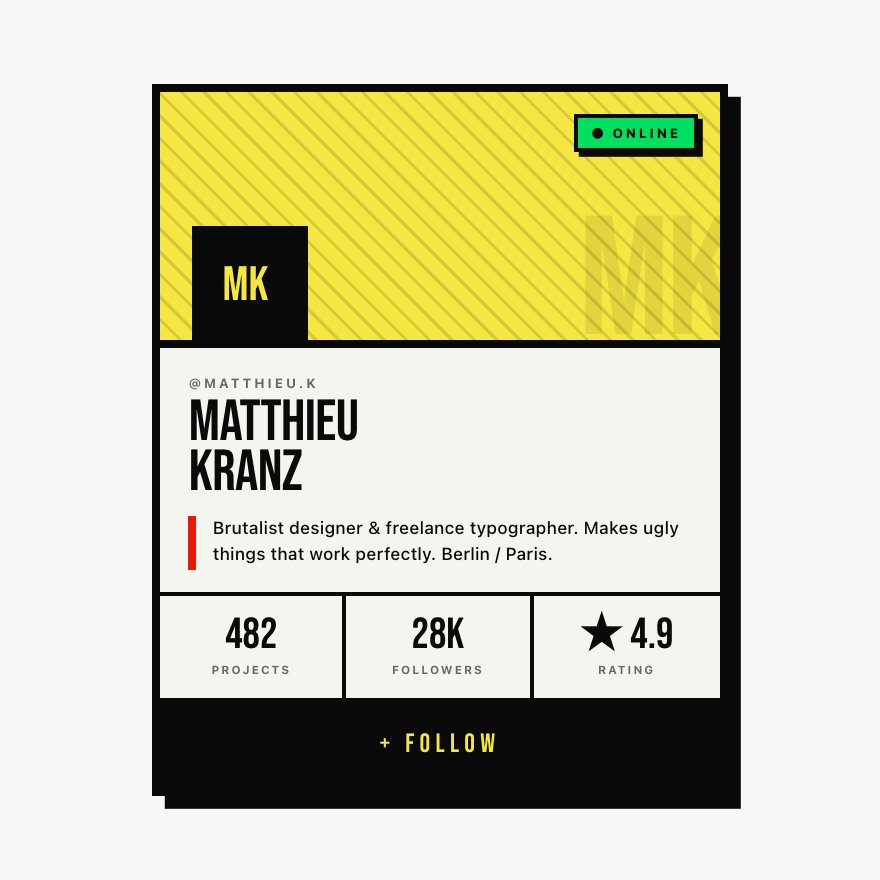
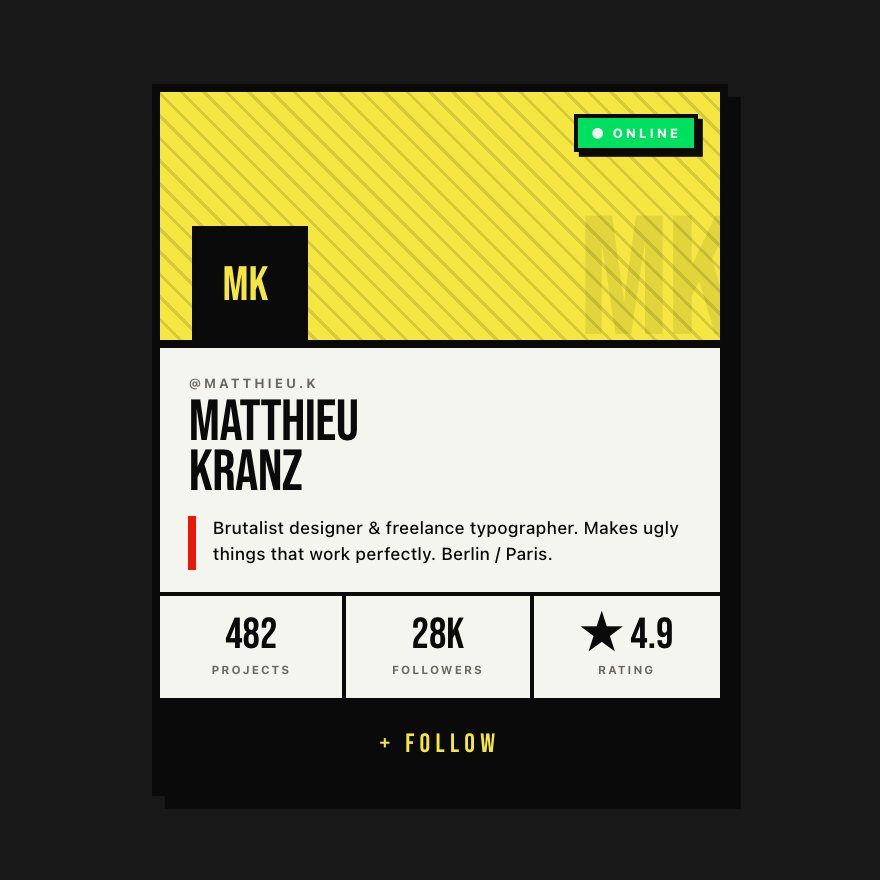
fix: mobile and dark mode polish across detail pages and experiments
- Detail pages: back-to-list arrow in a left dock; on narrow screens the
  Details button scrolls the panel into view and the stage shrinks so it peeks
- Carousel: swiping no longer locks after the first swipe or a control change;
  defaults to round
- Hold to delete: block the long-press menu and iOS text selection that
  cancelled touch holds
- Morph Surface: 16px field on touch so iOS doesn't zoom on focus
- Siri orb: controls fit their fieldset and stack on narrow widths
- Dark mode: real drop shadows for the shared halo, Shift shadow tokens and
  the stats widget instead of pale glows
- Previews: shoot every poster in dark mode, fix the base URL and slug parsing,
  regenerate posters
- Window Licker: bump date so it leads the list

diff --git a/tests/smoke.spec.ts b/tests/smoke.spec.ts
@@ -18,6 +18,24 @@ test('index lists experiments and detail page links back', async ({ page }) => {
   await expect(page).toHaveURL('./');
 });
 
+test('dock back arrow returns to the experiments list', async ({ page }) => {
+  await page.goto('./sheet/');
+  await page.getByRole('link', { name: 'Back to experiments' }).click();
+  await expect(page).toHaveURL('./');
+});
+
+test.describe('on a phone', () => {
+  test.use({ viewport: { height: 844, width: 390 } });
+
+  test('details scrolls the panel into view', async ({ page }) => {
+    await page.goto('./sheet/');
+    await page.waitForLoadState();
+    await page.getByRole('button', { name: 'Details' }).click();
+    await expect(page.locator('#info')).toBeInViewport();
+    await expect.poll(() => page.evaluate(() => window.scrollY)).toBeGreaterThan(0);
+  });
+});
+
 test('stage shrinks with the details panel instead of snapping', async ({ page }) => {
   await page.goto('./sheet/');
   await page.waitForLoadState();
@@ -241,6 +259,16 @@ test('hold to delete fires only after a full hold', async ({ page }) => {
   await expect(button).toHaveAccessibleName('Hold to delete', { timeout: 3000 });
 });
 
+test('hold to delete blocks the long-press menu that would cancel a touch hold', async ({ page }) => {
+  await page.goto('./hold-to-delete-button/');
+  const demo = page.getByTestId('hold-to-delete-button-demo');
+  await demo.locator('astro-island:not([ssr])').waitFor({ state: 'attached' });
+  const prevented = await demo
+    .getByRole('button')
+    .evaluate((button) => !button.dispatchEvent(new MouseEvent('contextmenu', { bubbles: true, cancelable: true })));
+  expect(prevented).toBe(true);
+});
+
 test('staggered text rolls from the hovered letter and back', async ({ page }) => {
   await page.goto('./staggered-text/');
   const demo = page.getByTestId('staggered-text-demo');
@@ -344,4 +372,56 @@ test('liquid glass calendar pages and picks days, and the stopwatch runs', async
   await demo.getByRole('button', { name: 'Pause stopwatch' }).click();
   await demo.getByRole('button', { name: 'Reset stopwatch' }).click();
   await expect(readout).toHaveText('00:00.00');
+});
+
+test('carousel keeps swiping after a swipe and after a control change', async ({ page }) => {
+  await page.goto('./carousel/');
+  await page.locator('astro-island:not([ssr])').waitFor({ state: 'attached' });
+  // The container, not the track: the track's box moves with its translate.
+  const container = page.locator('.carousel-container');
+  const swipe = async () => {
+    const box = await container.boundingBox();
+    if (!box) {
+      throw new Error('carousel not rendered');
+    }
+    const y = box.y + box.height / 2;
+    await page.mouse.move(box.x + box.width * 0.7, y);
+    await page.mouse.down();
+    await page.mouse.move(box.x + box.width * 0.3, y, { steps: 8 });
+    await page.mouse.up();
+  };
+  const current = page.locator('.carousel-indicator[aria-current="true"]');
+  await swipe();
+  await expect(current).toHaveAccessibleName('Go to slide 2');
+  await swipe();
+  await expect(current).toHaveAccessibleName('Go to slide 3');
+  await page.getByRole('checkbox', { name: 'loop' }).check();
+  await expect(current).toHaveAccessibleName('Go to slide 1');
+  await swipe();
+  await expect(current).toHaveAccessibleName('Go to slide 2');
+});
+
+test('siri orb controls fit inside their fieldset', async ({ page }) => {
+  await page.goto('./siri-orb/');
+  const controls = page.locator('.siri-orb-controls');
+  await controls.waitFor();
+  const fits = () => controls.evaluate((el) => el.scrollWidth <= el.clientWidth);
+  expect(await fits()).toBe(true);
+  await page.setViewportSize({ height: 844, width: 390 });
+  expect(await fits()).toBe(true);
+});
+
+test.describe('on a touch phone', () => {
+  test.use({ hasTouch: true, isMobile: true, viewport: { height: 844, width: 390 } });
+
+  // iOS zooms the page into any focused field under 16px.
+  test('morph surface field is large enough not to zoom on focus', async ({ page }) => {
+    await page.goto('./morph-surface/');
+    const demo = page.getByTestId('morph-surface-demo');
+    await demo.locator('astro-island:not([ssr])').waitFor({ state: 'attached' });
+    await demo.getByRole('button', { name: 'Ask AI' }).click();
+    const field = demo.getByRole('textbox', { name: 'AI Input' });
+    await expect(field).toBeFocused();
+    await expect(field).toHaveCSS('font-size', '16px');
+  });
 });

diff --git a/src/content/experiments/carousel/Carousel.tsx b/src/content/experiments/carousel/Carousel.tsx
@@ -127,7 +127,6 @@ const Carousel = ({
   const x = useMotionValue(0);
   const [isHovered, setIsHovered] = useState<boolean>(false);
   const [isJumping, setIsJumping] = useState<boolean>(false);
-  const [isAnimating, setIsAnimating] = useState<boolean>(false);
 
   const containerRef = useRef<HTMLDivElement>(null);
   useEffect(() => {
@@ -173,13 +172,8 @@ const Carousel = ({
 
   const effectiveTransition = isJumping ? { duration: 0 } : SPRING_OPTIONS;
 
-  const handleAnimationStart = () => {
-    setIsAnimating(true);
-  };
-
   const handleAnimationComplete = () => {
     if (!loop || itemsForRender.length <= 1) {
-      setIsAnimating(false);
       return;
     }
     const lastCloneIndex = itemsForRender.length - 1;
@@ -189,10 +183,7 @@ const Carousel = ({
       const target = 1;
       setPosition(target);
       x.set(-target * trackItemOffset);
-      requestAnimationFrame(() => {
-        setIsJumping(false);
-        setIsAnimating(false);
-      });
+      requestAnimationFrame(() => setIsJumping(false));
       return;
     }
 
@@ -201,14 +192,8 @@ const Carousel = ({
       const target = items.length;
       setPosition(target);
       x.set(-target * trackItemOffset);
-      requestAnimationFrame(() => {
-        setIsJumping(false);
-        setIsAnimating(false);
-      });
-      return;
+      requestAnimationFrame(() => setIsJumping(false));
     }
-
-    setIsAnimating(false);
   };
 
   const handleDragEnd = (_: MouseEvent | TouchEvent | PointerEvent, info: PanInfo): void => {
@@ -254,7 +239,9 @@ const Carousel = ({
     >
       <motion.div
         className="carousel-track"
-        drag={isAnimating ? false : 'x'}
+        // Always draggable: gating on an "animating" flag stuck it off whenever
+        // an animation was interrupted and never reported completion.
+        drag="x"
         {...dragProps}
         style={{
           gap: `${GAP}px`,
@@ -266,7 +253,6 @@ const Carousel = ({
         onDragEnd={handleDragEnd}
         animate={{ x: -(position * trackItemOffset) }}
         transition={effectiveTransition}
-        onAnimationStart={handleAnimationStart}
         onAnimationComplete={handleAnimationComplete}
       >
         {itemsForRender.map((item, index) => (

diff --git a/src/content/experiments/siri-orb/siri-orb-demo.css b/src/content/experiments/siri-orb/siri-orb-demo.css
@@ -6,6 +6,8 @@
   justify-items: center;
   gap: var(--s-space-8);
   width: 100%;
+  /* The controls reflow on this width, not the viewport's. */
+  container-type: inline-size;
 }
 
 /* Sized to the largest orb plus its bloom, so dragging the size slider never
@@ -20,8 +22,11 @@
 .siri-orb-controls {
   display: grid;
   gap: var(--s-space-2);
+  /* An explicit track, or the column grows to the colours row's min-content
+     and the controls spill out of the fieldset. */
+  grid-template-columns: minmax(0, 1fr);
   min-inline-size: 0;
-  width: min(100%, 24rem);
+  width: min(100%, 27rem);
   margin: 0;
   padding: var(--s-space-3) var(--s-space-4);
   border: 0;
@@ -40,6 +45,7 @@
   label,
   .siri-orb-swatches {
     display: flex;
+    flex-wrap: wrap;
     align-items: center;
     gap: var(--s-space-2);
   }
@@ -96,5 +102,22 @@
     border: 0;
     border-radius: var(--s-radius-full);
     box-shadow: inset 0 0 0 1px oklch(0 0 0 / 0.1);
+  }
+}
+
+/* Too narrow for a 9rem name column beside a usable slider: names stack
+   above their control. */
+@container (width < 26rem) {
+  .siri-orb-controls label:has([type='range'], select) {
+    grid-template-columns: minmax(0, 1fr) 3.5rem;
+    row-gap: var(--s-space-1);
+
+    & > span {
+      grid-column: 1 / -1;
+    }
+  }
+
+  .siri-orb-swatches > span {
+    width: 100%;
   }
 }

diff --git a/src/content/experiments/stats-widget/stats-widget.css b/src/content/experiments/stats-widget/stats-widget.css
@@ -34,7 +34,12 @@
   overflow: clip;
   padding: var(--s-space-6) var(--s-space-6) 0;
   border-radius: 35px;
-  box-shadow: 0 0 10px 1px var(--s-neutral-300);
+  /* A light neutral glow reads as a halo on dark; there the card gets a
+     deep drop shadow and a faint rim instead. */
+  box-shadow:
+    0 0 10px 1px light-dark(var(--s-neutral-300), transparent),
+    0 12px 32px -8px light-dark(transparent, oklch(0 0 0 / 0.7)),
+    0 0 0 1px light-dark(transparent, oklch(1 0 0 / 0.08));
 }
 
 .stats-widget-slide {
@@ -109,5 +114,8 @@
   height: var(--s-space-10);
   margin-top: calc(var(--s-space-8) * -1);
   border-radius: 0 0 35px 35px;
-  box-shadow: 0 0 5px 1px var(--s-neutral-300);
+  box-shadow:
+    0 0 5px 1px light-dark(var(--s-neutral-300), transparent),
+    0 8px 16px -6px light-dark(transparent, oklch(0 0 0 / 0.6)),
+    0 0 0 1px light-dark(transparent, oklch(1 0 0 / 0.06));
 }

diff --git a/src/content/experiments/hold-to-delete-button/hold-to-delete-button.css b/src/content/experiments/hold-to-delete-button/hold-to-delete-button.css
@@ -24,8 +24,11 @@
   color: var(--hold-tone);
   font-weight: var(--s-font-medium);
   cursor: pointer;
-  /* No scroll or long-press menu stealing the hold on touch. */
+  /* No scroll, selection or long-press menu stealing the hold on touch: a
+     selection on iOS fires pointercancel about 500ms in. Safari before 26
+     only honours the prefixed user-select. */
   touch-action: none;
+  -webkit-user-select: none;
   user-select: none;
   -webkit-touch-callout: none;
   transition-property: background-color, color, box-shadow;

diff --git a/src/content/experiments/carousel/CarouselDemo.tsx b/src/content/experiments/carousel/CarouselDemo.tsx
@@ -8,7 +8,7 @@ const CarouselDemo = (): React.JSX.Element => {
   const [autoplayDelay, setAutoplayDelay] = useState(3000);
   const [pauseOnHover, setPauseOnHover] = useState(false);
   const [loop, setLoop] = useState(false);
-  const [round, setRound] = useState(false);
+  const [round, setRound] = useState(true);
 
   // Held in state so Carousel's items memo only changes when the count does.
   const [items, setItems] = useState(DEFAULT_ITEMS);

diff --git a/src/content/experiments/hold-to-delete-button/HoldToDeleteButton.tsx b/src/content/experiments/hold-to-delete-button/HoldToDeleteButton.tsx
@@ -141,6 +141,8 @@ export const HoldToDeleteButton = ({
       data-state={state}
       disabled={disabled}
       onBlur={cancelHold}
+      // A long press opens the context menu on Android, which cancels the pointer.
+      onContextMenu={(event) => event.preventDefault()}
       onKeyDown={(event) => {
         if ((event.key === ' ' || event.key === 'Enter') && !event.repeat) {
           event.preventDefault();

diff --git a/src/content/experiments/morph-surface/morph-surface.css b/src/content/experiments/morph-surface/morph-surface.css
@@ -122,6 +122,12 @@
   font-size: var(--s-text-sm);
   resize: none;
 
+  /* iOS zooms the page into any field under 16px when it takes focus, and
+     this one takes focus every time the panel opens. */
+  @media (pointer: coarse) {
+    font-size: 16px;
+  }
+
   &::placeholder {
     color: var(--page-muted);
   }
